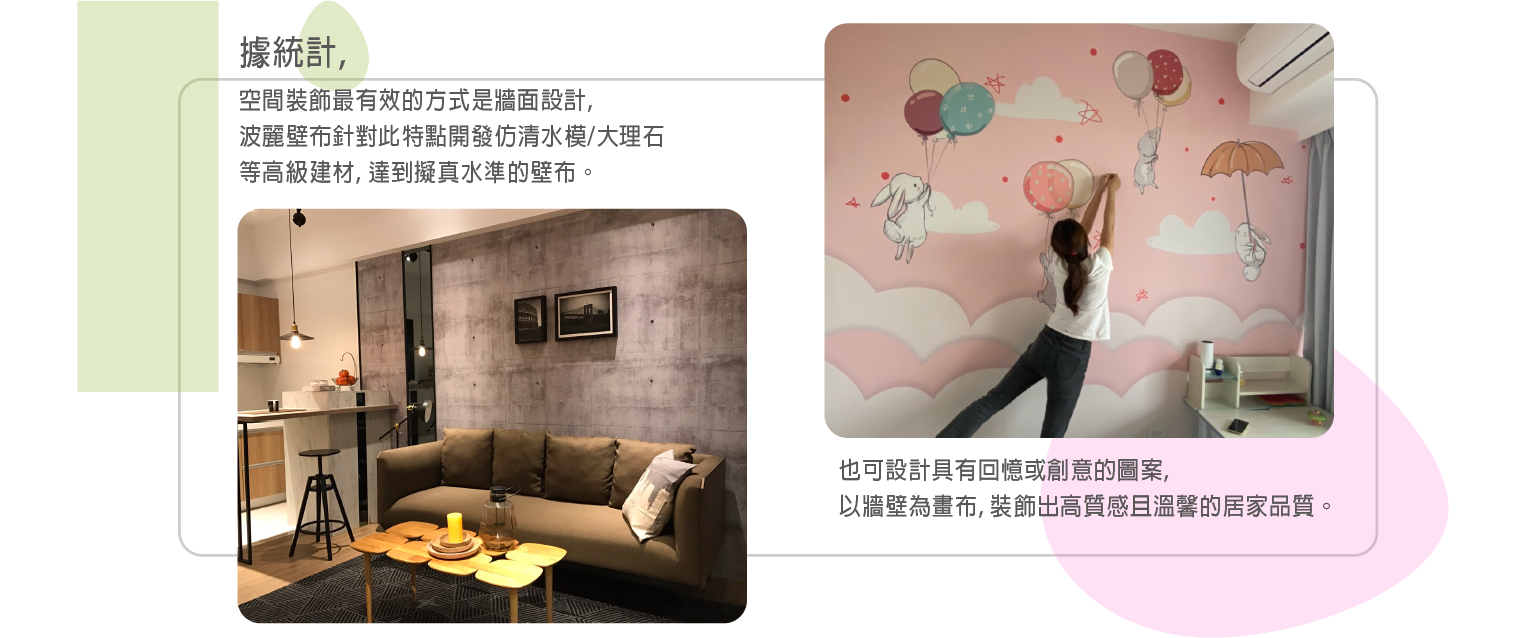
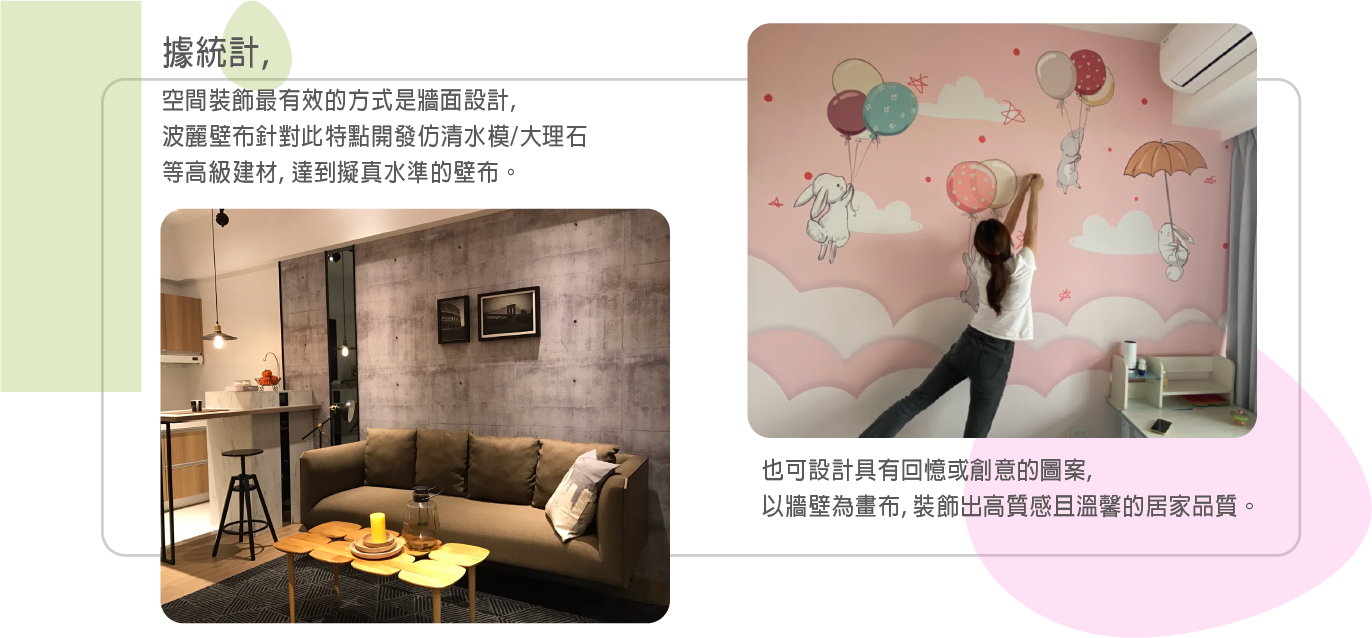
fix

diff --git a/app/web/templates/web/index.html b/app/web/templates/web/index.html
@@ -5,7 +5,7 @@
   <div class="bg-frontpage-cover header-height">
     <div class="container py-7">
       <div class="row justify-content-start">
-        <div class="col mx-4 mx-md-6 mx-lg-8 mx-xl-10">
+        <div class="col mx-2 mx-md-6 mx-lg-8 mx-xl-10">
           <div class="mt-5">
             <img src="{% static 'web/assets/img/index_page/index_bg_logo.png' %}" alt="Snow" style="width:300px;">
           </div>
@@ -21,15 +21,24 @@
   </div>
 
   <!-- 前言 -->
-  <div class="container text-center">
-    <div class="col-12 mx-auto my-3" style="max-width: 1280px;">
+  <div class="container text-center d-md-none">
+    <div class="col-12 mx-auto my-3">
+      <img class="mx-0 px-0" src="{% static 'web' %}/assets/img/index_page/index_01_mobile.png" alt="" style="width: 100%;">
+    </div>
+  </div>
+  
+  <div class="container text-center d-none d-md-block">
+    <div class="col-12 mx-auto my-3" style="max-width: 1080px;">
       <img class="mx-0 px-0" src="{% static 'web' %}/assets/img/index_page/index_01.png" alt="" style="width: 100%;">
     </div>
   </div>
 
   <!-- 壁布 vs 壁紙 -->
   <div class="container text-center">
-    <div class="col-12 mx-auto my-3" style="max-width: 1280px;">
+    <div class="col-12 mx-auto my-3 d-md-none">
+      <img src="{% static 'web' %}/assets/img/index_page/index_02_mobile.png" alt="" style="max-width: 100%;">
+    </div>
+    <div class="col-12 mx-auto my-3 d-none d-md-block" style="max-width: 1280px;">
       <img src="{% static 'web' %}/assets/img/index_page/index_02.png" alt="" style="max-width: 100%;">
     </div>
   </div>
@@ -52,38 +61,55 @@
   
 
   <!-- 實際案例 -->
-  <div id="index_carousel" class="container my-3 pt-3 pb-7" style="max-width: 1080px;">
-    <h2>實際案例分享</h2>
-    <h2 style="color: white;">PORTFOLIOS OF WORKS</h2>
-    <div class="row justify-content-center">
-      <div class="carousel slide" id="carouselExampleControls" data-bs-ride="carousel" style="max-width: 1280px;" >
-        <!-- <div class="carousel-indicators justify-content-center">
-          <button class="active" type="button" data-bs-target="#carouselExampleControls" data-bs-slide-to="0" aria-current="true" aria-label="Slide 1"></button>
-          <button type="button" data-bs-target="#carouselExampleControls" data-bs-slide-to="1" aria-label="Slide 2"></button>
-          <button type="button" data-bs-target="#carouselExampleControls" data-bs-slide-to="2" aria-label="Slide 3"></button>
-        </div> -->
+  <div style="background:#FFF3D0;">
+    <div id="index_carousel" class="container my-3 pt-4 pb-7" style="max-width: 1080px;">
+      <h2>實際案例分享</h2>
+      <h2 style="color: white;">PORTFOLIOS OF WORKS</h2>
+      <div class="row justify-content-center">
+        <div class="carousel slide" id="carouselExampleControls" data-bs-ride="carousel" style="max-width: 1280px;" >
+          <!-- <div class="carousel-indicators justify-content-center">
+            <button class="active" type="button" data-bs-target="#carouselExampleControls" data-bs-slide-to="0" aria-current="true" aria-label="Slide 1"></button>
+            <button type="button" data-bs-target="#carouselExampleControls" data-bs-slide-to="1" aria-label="Slide 2"></button>
+            <button type="button" data-bs-target="#carouselExampleControls" data-bs-slide-to="2" aria-label="Slide 3"></button>
+          </div> -->
+          
+          <div class="carousel-inner justify-content-cente">
+            <div class="carousel-item active">
+              <div class="d-md-none" >
+                <img class="d-block slide-photo" src="{% static 'web/assets/img/index_page/cases/2_mobile.png' %}" style="width: 90%; margin: 0 auto;">
+              </div>
+              <div class="d-none d-md-block" >
+                <img class="d-block slide-photo" src="{% static 'web/assets/img/index_page/cases/2.png' %}" style="width: 95%; margin: 0 auto;">
+              </div>
+            </div>
+            <div class="carousel-item">
+              <div class="d-md-none" >
+                <img class="d-block slide-photo" src="{% static 'web/assets/img/index_page/cases/2_mobile.png' %}" style="width: 90%; margin: 0 auto;">
+              </div>
+              <div class="d-none d-md-block" >
+                <img class="d-block slide-photo" src="{% static 'web/assets/img/index_page/cases/3.png' %}" style="width: 95%; margin: 0 auto;">
+              </div>
+            </div>
+            <div class="carousel-item">
+              <div class="d-md-none" >
+                <img class="d-block slide-photo" src="{% static 'web/assets/img/index_page/cases/2_mobile.png' %}" style="width: 90%; margin: 0 auto;">
+              </div>
+              <div class="d-none d-md-block" >
+                <img class="d-block slide-photo" src="{% static 'web/assets/img/index_page/cases/4.png' %}" style="width: 95%; margin: 0 auto;">
+              </div>
+            </div>
+          </div>
 
-        <div class="carousel-inner justify-content-center">
-          <div class="carousel-item active">
-            <img class="d-block slide-photo" src="{% static 'web/assets/img/index_page/cases/2.png' %}" style="width: 95%; margin: 0 auto;">
-          </div>
-          <div class="carousel-item">
-            <img class="d-block slide-photo" src="{% static 'web/assets/img/index_page/cases/3.png' %}" style="width: 95%; margin: 0 auto;">
-          </div>
-          <div class="carousel-item">
-            <img class="d-block slide-photo" src="{% static 'web/assets/img/index_page/cases/4.png' %}" style="width: 95%; margin: 0 auto;">
-          </div>
+          <button class="carousel-control-prev" type="button" data-bs-target="#carouselExampleControls" data-bs-slide="prev">
+            <span class="carousel-control-prev-icon" aria-hidden="true"></span>
+            <span class="sr-only">Previous</span>
+          </button>
+
+          <button class="carousel-control-next" type="button" data-bs-target="#carouselExampleControls" data-bs-slide="next">
+            <span class="carousel-control-next-icon" aria-hidden="true"></span>
+            <span class="sr-only">Next</span>
+          </button>
         </div>
-
-        <button class="carousel-control-prev" type="button" data-bs-target="#carouselExampleControls" data-bs-slide="prev">
-          <span class="carousel-control-prev-icon" aria-hidden="true"></span>
-          <span class="sr-only">Previous</span>
-        </button>
-
-        <button class="carousel-control-next" type="button" data-bs-target="#carouselExampleControls" data-bs-slide="next">
-          <span class="carousel-control-next-icon" aria-hidden="true"></span>
-          <span class="sr-only">Next</span>
-        </button>
       </div>
     </div>
   </div>

diff --git a/app/web/static/web/assets/css/user.css b/app/web/static/web/assets/css/user.css
@@ -36,7 +36,14 @@ p{
 
 @media (max-width: 768px) {
   .header-height {
-    height: 400px; /* 在小屏幕上调整高度为视口高度的 50% */
+    height: 520px; /* 在小屏幕上调整高度为视口高度的 50% */
+  }
+  .bg-frontpage-cover{
+    background-size: cover;
+    background-position: center center;
+    background-image: url('/static/web/assets/img/index_page/index_bg_mobile.png');
+    background-repeat: no-repeat;
+    width: 100%;
   }
 }
 
@@ -172,6 +179,10 @@ div.side-button{
 
 #index_carousel{
   background-image: url('/static/web/assets/img/index_page/cases/bg.png');
+  background-size: cover;
+  background-position: center center;
+  background-repeat: no-repeat;
+  width: 100%;
 }
 
 #index_style{
